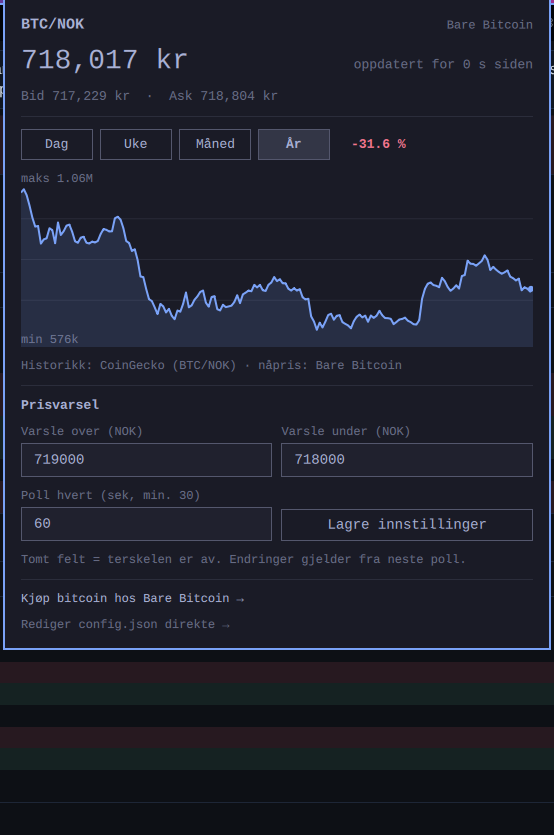
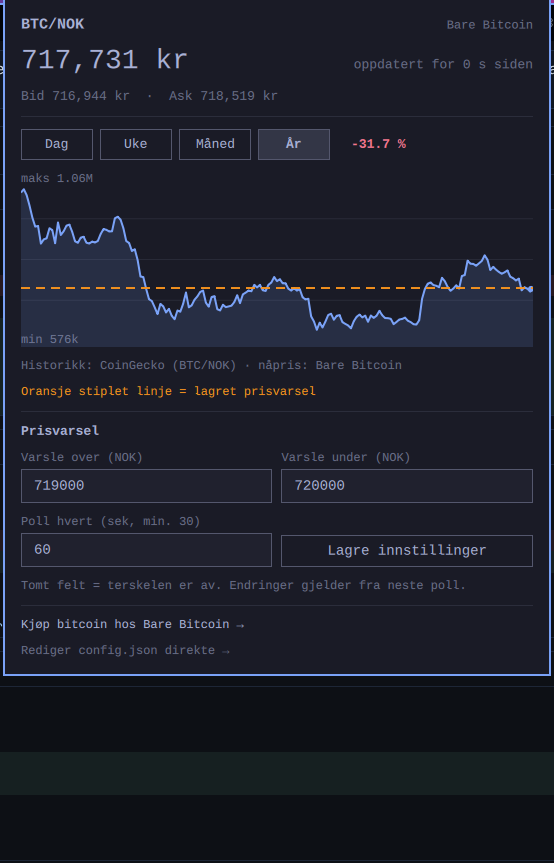
Fix threshold field being rewritten while typing; draw alert thresholds in the chart
The upper/lower/interval TextFields bound their text to mirrored properties
that onTextEdited updated on every keystroke, and an 11 s config refresh wrote
those same properties back into the fields — so a half-typed number was
replaced by the saved value mid-edit. The fields are now the source of truth
while editing: no text binding, save reads the fields directly, and the
periodic config refresh skips any field that has focus.

Saved thresholds are drawn as orange dashed guide lines on the price chart,
only when a threshold is actually saved in config.json and falls inside the
visible period's price range, with a legend under the chart. Bump 1.1.1.

diff --git a/Panel.qml b/Panel.qml
@@ -45,10 +45,10 @@ Panel {
   readonly property var loc: Qt.locale()
   readonly property string configDir: Quickshell.env("HOME") + "/.config/barebitcoin-plugin"
 
-  // Threshold form state. Empty text means "that threshold is off".
-  property string upperText: ""
-  property string lowerText: ""
-  property string intervalText: ""
+  // Saved thresholds, mirrored from config.json. Only these are drawn as
+  // guide lines — unsaved text in the form must not move the chart.
+  property real savedUpper: NaN
+  property real savedLower: NaN
   property string saveStatus: ""
   property bool saveError: false
 
@@ -87,9 +87,12 @@ Panel {
 
   function saveThresholds() {
     if (saveProcess.running) return
-    var upper = digitsOnly(root.upperText)
-    var lower = digitsOnly(root.lowerText)
-    var interval = String(root.intervalText).replace(/[^0-9]/g, "")
+    // The fields are the source of truth while editing: reading them here
+    // (instead of mirrored properties) keeps a binding from rewriting the
+    // text under the cursor on every keystroke.
+    var upper = digitsOnly(upperField.text)
+    var lower = digitsOnly(lowerField.text)
+    var interval = String(intervalField.text).replace(/[^0-9]/g, "")
     if (interval === "") interval = "60"
 
     saveProcess.command = ["sh", Qt.resolvedUrl("save-config.sh").toString().replace("file://", ""),
@@ -105,16 +108,37 @@ Panel {
     } catch (e) {
       return
     }
-    root.upperText = doc.upper_threshold_nok === null || doc.upper_threshold_nok === undefined
+
+    var upper = doc.upper_threshold_nok === null || doc.upper_threshold_nok === undefined
       ? "" : String(doc.upper_threshold_nok)
-    root.lowerText = doc.lower_threshold_nok === null || doc.lower_threshold_nok === undefined
+    var lower = doc.lower_threshold_nok === null || doc.lower_threshold_nok === undefined
       ? "" : String(doc.lower_threshold_nok)
-    root.intervalText = doc.poll_interval_seconds === undefined
+    var interval = doc.poll_interval_seconds === undefined
       ? "60" : String(doc.poll_interval_seconds)
+
+    // Never clobber a field the user is typing in: the periodic config
+    // refresh lands mid-edit and used to wipe half-typed numbers.
+    if (!upperField.activeFocus) upperField.text = upper
+    if (!lowerField.activeFocus) lowerField.text = lower
+    if (!intervalField.activeFocus) intervalField.text = interval
+
+    root.savedUpper = upper === "" ? NaN : Number(upper)
+    root.savedLower = lower === "" ? NaN : Number(lower)
+    chart.requestPaint()
   }
 
   function pointsUsable(pts) {
     return pts !== null && pts !== undefined && pts.length > 1
+  }
+
+  // A guide line only exists for a saved threshold that is actually inside
+  // the chart's price range.
+  readonly property bool thresholdLineVisible: {
+    var s = root.chartStats
+    if (s === null) return false
+    var upper = !isNaN(root.savedUpper) && root.savedUpper >= s.min && root.savedUpper <= s.max
+    var lower = !isNaN(root.savedLower) && root.savedLower >= s.min && root.savedLower <= s.max
+    return upper || lower
   }
 
   // Min/max/change for the visible period, shared by the Canvas and the
@@ -420,6 +444,28 @@ Panel {
               ctx.arc(lastX - 2, lastY, 3, 0, Math.PI * 2)
               ctx.fillStyle = root.accent
               ctx.fill()
+
+              // Saved alert thresholds as orange guide lines. Only values that
+              // are actually saved in config.json get a line, and only when
+              // they fall inside the visible price range.
+              var thresholdColor = "#f7931e"
+              var lines = [
+                { value: root.savedUpper, label: "varsel over" },
+                { value: root.savedLower, label: "varsel under" }
+              ]
+              ctx.setLineDash([6, 4])
+              ctx.lineWidth = 1.5
+              for (var k = 0; k < lines.length; k++) {
+                var tv = lines[k].value
+                if (isNaN(tv) || tv < stats.min || tv > stats.max) continue
+                var ty = yAt(tv)
+                ctx.beginPath()
+                ctx.moveTo(0, ty)
+                ctx.lineTo(w, ty)
+                ctx.strokeStyle = thresholdColor
+                ctx.stroke()
+              }
+              ctx.setLineDash([])
             }
           }
 
@@ -463,6 +509,15 @@ Panel {
           font.pixelSize: Style.font.caption
         }
 
+        Text {
+          width: parent.width
+          visible: root.thresholdLineVisible
+          text: "Oransje stiplet linje = lagret prisvarsel"
+          color: "#f7931e"
+          font.family: root.bar ? root.bar.fontFamily : Style.font.family
+          font.pixelSize: Style.font.caption
+        }
+
         PanelSeparator {
           width: parent.width
           foreground: root.textColor
@@ -494,12 +549,11 @@ Panel {
             }
 
             TextField {
+              id: upperField
               width: parent.width
-              text: root.upperText
               placeholderText: "av"
               foreground: root.textColor
               accent: root.accent
-              onTextEdited: root.upperText = text
               onAccepted: root.saveThresholds()
             }
           }
@@ -516,12 +570,11 @@ Panel {
             }
 
             TextField {
+              id: lowerField
               width: parent.width
-              text: root.lowerText
               placeholderText: "av"
               foreground: root.textColor
               accent: root.accent
-              onTextEdited: root.lowerText = text
               onAccepted: root.saveThresholds()
             }
           }
@@ -543,12 +596,11 @@ Panel {
             }
 
             TextField {
+              id: intervalField
               width: parent.width
-              text: root.intervalText
               placeholderText: "60"
               foreground: root.textColor
               accent: root.accent
-              onTextEdited: root.intervalText = text
               onAccepted: root.saveThresholds()
             }
           }

diff --git a/README.md b/README.md
@@ -16,6 +16,8 @@ prisen krysser en terskel du setter — direkte i panelet.
 - ✅ Viser prisen som et bar-widget (pill); klikk åpner et panel med
   nåpris, bid/ask og en prisgraf
 - ✅ Prisgraf med velbare perioder: **dag, uke, måned og år**
+- ✅ Lagrede prisvarsler tegnes som en **oransje stiplet linje** i grafen
+  (kun når terskelen er lagret og ligger innenfor valgt periodes prisnivå)
 - ✅ Setter øvre/nedre terskel og pollintervall **i panelet**, uten å
   redigere filer for hånd
 - ✅ Sender desktop-varsel (`notify-send`) når prisen krysser en terskel —
